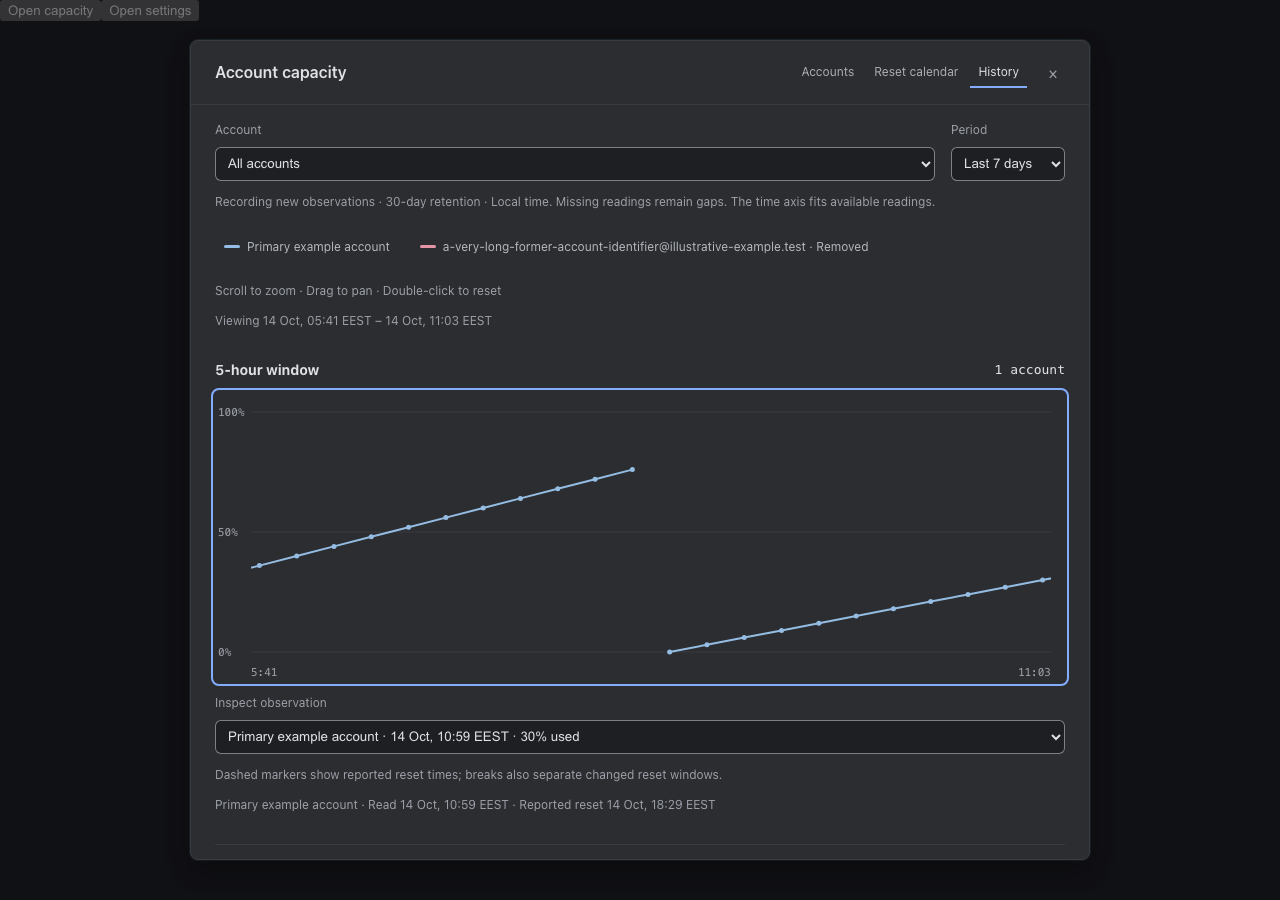
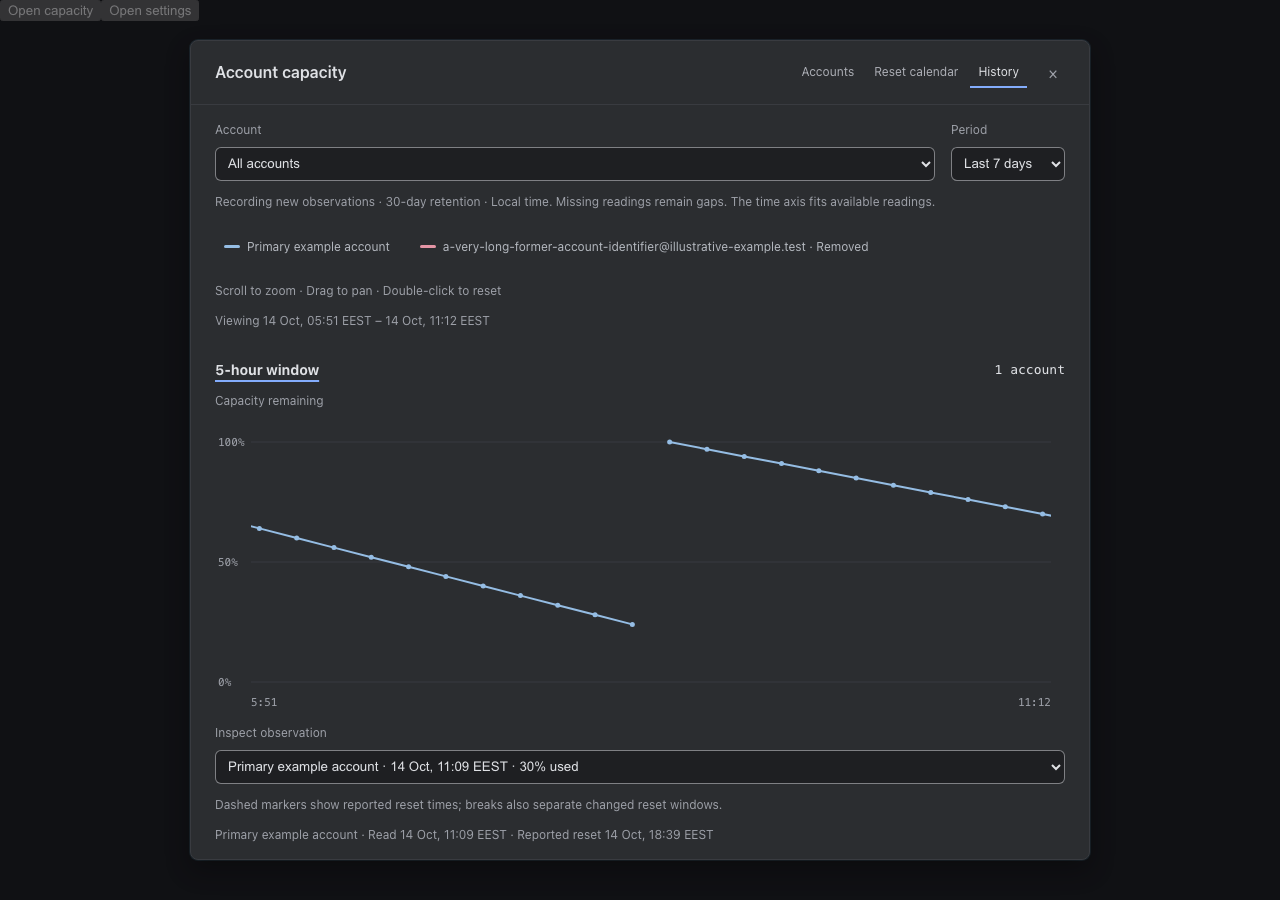
feat: chart remaining capacity downwards
Plot remaining capacity with exhausted accounts at the bottom and replace the chart focus frame with a keyboard heading indicator. This makes depletion easier to follow without changing recorded usage or removing accessible focus feedback.

diff --git a/src/web/components/AccountHistoryView.tsx b/src/web/components/AccountHistoryView.tsx
@@ -78,7 +78,7 @@ function HistoryChart({
   const w = p?.[window];
   const visibleAccounts = new Set(values.map((p) => p.account.id)).size;
   const x = (t: number) => 36 + ((t - start) / (end - start)) * (width - 50);
-  const y = (pct: number) => 260 - pct * 2.4;
+  const y = (used: number) => 20 + used * 2.4;
   return (
     <section
       className="ah-chart"
@@ -90,16 +90,17 @@ function HistoryChart({
           {accounts.length > 1
             ? `${visibleAccounts} ${visibleAccounts === 1 ? "account" : "accounts"}`
             : w
-              ? `${w.pct}% used`
+              ? `${100 - w.pct}% remaining`
               : "No observations"}
         </span>
       </header>
+      <p className="ah-note">Capacity remaining</p>
       <svg
         ref={chartRef}
         viewBox={`0 0 ${width} 290`}
         role="group"
         tabIndex={0}
-        aria-label={`${window === "five_hour" ? "5-hour" : "7-day"} interactive usage chart. Scroll to zoom, drag to pan, double-click to reset. Keyboard: plus or minus to zoom, left or right arrows to pan, zero to reset. Gaps indicate missing observations or changed reset windows.`}
+        aria-label={`${window === "five_hour" ? "5-hour" : "7-day"} interactive capacity chart. Top is 100 percent remaining; bottom is zero remaining. Remaining capacity is 100 minus reported usage. Scroll to zoom, drag to pan, double-click to reset. Keyboard: plus or minus to zoom, left or right arrows to pan, zero to reset. Gaps indicate missing observations or changed reset windows.`}
         onDoubleClick={onReset}
         onKeyDown={(e) => {
           if (e.ctrlKey || e.metaKey || e.altKey) return;
@@ -157,7 +158,7 @@ function HistoryChart({
               className="ah-grid"
             />
             <text x="3" y={y(v) + 4}>
-              {v}%
+              {100 - v}%
             </text>
           </g>
         ))}
@@ -214,7 +215,8 @@ function HistoryChart({
                     style={{ fill: a.color }}
                   >
                     <title>
-                      {a.name} · {stamp(p.t)} · {p.pct}% used
+                      {a.name} · {stamp(p.t)} · {100 - p.pct}% remaining ·{" "}
+                      {p.pct}% used
                     </title>
                   </circle>
                 ))}
@@ -485,8 +487,9 @@ export default function AccountHistoryView() {
             </>
           )}
           <p className="ah-note">
-            Percentages describe reported capacity used, not token consumption.
-            A reported reset time does not confirm renewed capacity.
+            Charts show capacity remaining (100% minus reported usage).
+            Observations show reported capacity used, not token consumption. A
+            reported reset time does not confirm renewed capacity.
           </p>
         </>
       )}

diff --git a/src/web/components/account-history.css b/src/web/components/account-history.css
@@ -214,8 +214,12 @@
   cursor: grabbing;
 }
 
-.ah-plot:focus-visible {
-  outline: 2px solid var(--accent);
-  outline-offset: 2px;
-  border-radius: 4px;
+.ah-plot:focus {
+  outline: none;
+}
+.ah-chart:has(.ah-plot:focus-visible) h3 {
+  text-decoration: underline;
+  text-decoration-color: var(--accent);
+  text-underline-offset: 5px;
+  text-decoration-thickness: 2px;
 }

diff --git a/.impeccable/surfaces/account-usage-history.md b/.impeccable/surfaces/account-usage-history.md
@@ -61,3 +61,7 @@ Series are clipped to the plot area without changing raw points or interpolating
 The owner requested taller graphs and interaction entirely inside the plot. Graphs now have 290px total height and a 240px data area. Wheel zoom needs no modifier; horizontal wheel pans, pointer drag pans while zoomed and double-click resets both windows. The visible button toolbar is removed. Focusable, labeled chart groups retain keyboard equivalents (+/−, left/right, 0/Home), with focus-visible styling. Scrolling outside the plots remains modal scrolling.
 
 Account names appear in SVG titles on lines, with a transparent 12px path for forgiving hit-testing; point titles preserve observation details. Browser assertions verify real line hit-testing, titles, height, direct wheel zoom, keyboard and pointer navigation, shared axes and double-click reset. Thirty-two focused tests, TypeScript, production build and browser verification passed. Updated default and zoomed desktop renders were inspected. Native tooltip appearance/delay, touch hardware and full screen-reader behavior were not visually verified.
+
+## Remaining-capacity direction and focus (owner refinement)
+
+Both vertical axes now plot remaining capacity (100 minus recorded usage), clearly labeled “Capacity remaining.” Full capacity is at the top, exhausted capacity at the bottom. Single-account headers show remaining; observation selectors retain reported usage, and point titles describe both. This is a presentation transformation, with no persistence or availability changes. The rectangular chart focus outline is removed; keyboard focus underlines the window heading instead. Browser checks verify zero remaining at the bottom and the axis labels, absent outline and a real Tab/Shift+Tab focus indication. Programmatic pointer-modality focus correctly has no keyboard decoration.

diff --git a/docs/features/account-usage-history-2104.md b/docs/features/account-usage-history-2104.md
@@ -58,3 +58,5 @@ Both windows share zoom and pan. Scroll inside a plot to zoom around the pointer
 Latest checks: 32 focused Vitest tests passed, TypeScript passed, production build passed, and browser interaction checks passed (keyboard zoom/reset, synchronized axes, pan, wheel zoom, drag without text selection, double-click reset, account hover hit-testing and 290px plot height, plus existing workflows). Updated renders include `zoomed.png`. Independent scoped review found no material issue. Native touch and full screen-reader verification remain follow-ups.
 
 Owner refinement: plots are 290px high (240px data area). Line hover identifies the account using SVG titles and a transparent 12px hit target; point hover retains exact observation details. The visible zoom toolbar was removed in favor of direct gestures and keyboard equivalents.
+
+The vertical axis now shows **capacity remaining**, derived as 100 minus reported usage: full capacity is at the top and exhausted capacity is at the bottom. Observation controls retain the provider's usage-consumed values; point tooltips name both measures. This changes presentation only, not readings, freshness or renewal classification. Chart focus uses a heading underline for keyboard navigation instead of a rectangular frame. Browser assertions verify exhausted accounts at the bottom, axis labels, no outline and visible keyboard focus; TypeScript and build passed.
